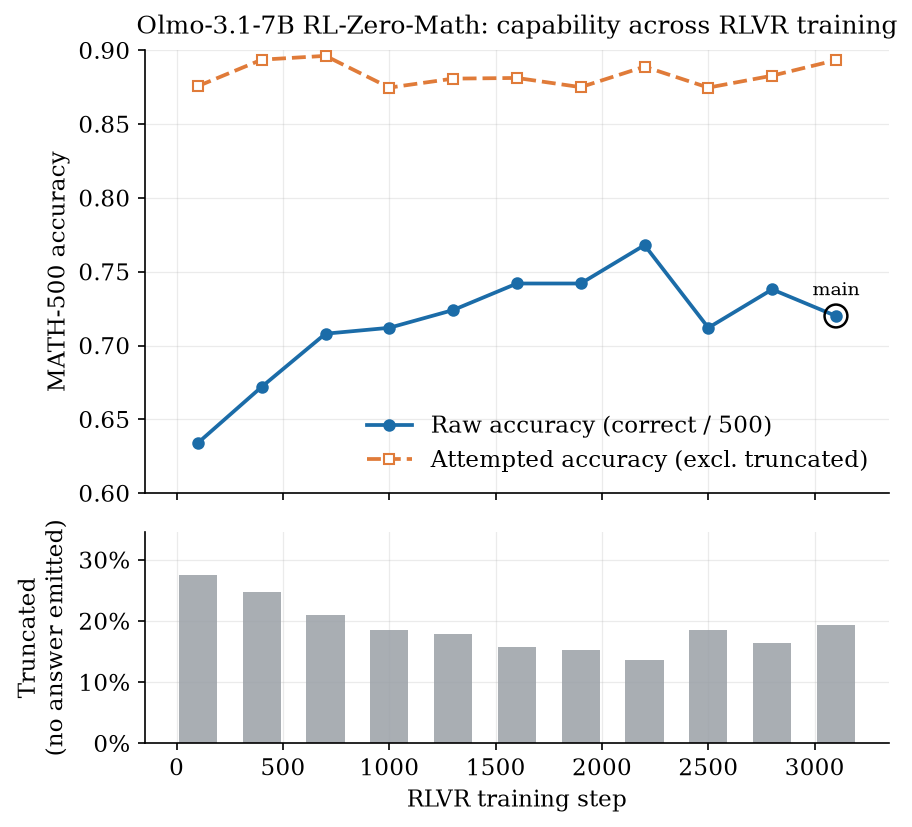
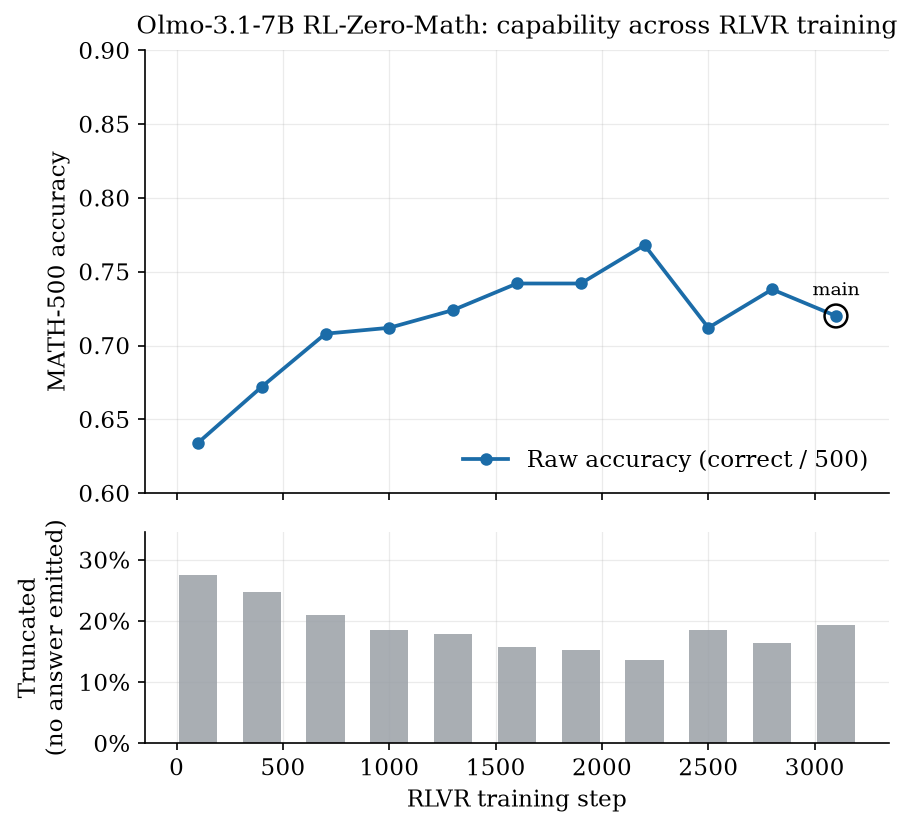
higher token limit run

diff --git a/phase1/higher_token_limit.py b/phase1/higher_token_limit.py
@@ -1,0 +1,146 @@
+"""Re-run MATH-500 capability eval only on truncated problems, at a 30k cap.
+
+Reads the existing 16k-cap results in results/phase1/capability/<revision>.jsonl,
+finds problems whose response hit the old max-token limit (detected by
+re-tokenizing the stored response), and regenerates just those with
+max_new_tokens=30000. Everything else (model loading, scaffold, scoring) is
+reused from eval_capability.py.
+
+Usage:
+  python phase1/higher_token_limit.py                       # all revisions with results
+  python phase1/higher_token_limit.py --revisions step_0100,main
+  python phase1/higher_token_limit.py --precision 4bit
+
+Writes (resumable within a revision -- rows are appended in chunks, and
+already-answered problem ids are skipped on restart):
+  results/phase1/capability/higher_token_limit/<revision>.jsonl
+  results/phase1/capability/higher_token_limit/summary.csv
+"""
+from __future__ import annotations
+
+import argparse
+import csv
+import json
+import sys
+import time
+from pathlib import Path
+
+sys.path.insert(0, str(Path(__file__).resolve().parent))
+import eval_capability as ec  # sets HF_HOME / HF_TOKEN on import
+
+OLD_MAX = 16384
+NEW_MAX = 30000
+# Re-tokenizing generated text can differ slightly from the original count,
+# so treat anything within this slack of the old cap as truncated.
+TRUNC_SLACK = 32
+# Generate in chunks so a crash only loses the current chunk, at a small
+# batching-throughput cost.
+CHUNK = 25
+
+OUT_DIR = ec.OUT_DIR / "higher_token_limit"
+
+
+def truncated_rows(revision: str, tokenizer) -> list[dict]:
+    """Rows from the 16k run whose response filled the old token budget."""
+    path = ec.OUT_DIR / f"{revision}.jsonl"
+    rows = [json.loads(l) for l in open(path)]
+    return [r for r in rows
+            if len(tokenizer.encode(r["response"], add_special_tokens=False))
+            >= OLD_MAX - TRUNC_SLACK]
+
+
+def write_summary():
+    rows = []
+    done = {p.stem: p for p in OUT_DIR.glob("*.jsonl")}
+    order = [r for r in ec.cached_revisions() if r in done] + sorted(set(done) - set(ec.cached_revisions()))
+    for rev in order:
+        rrows = [json.loads(l) for l in open(done[rev])]
+        n, correct = len(rrows), sum(r["correct"] for r in rrows)
+        rows.append({"revision": rev, "n_truncated": n, "correct": correct,
+                     "accuracy": round(correct / n, 4) if n else 0.0})
+    path = OUT_DIR / "summary.csv"
+    with open(path, "w", newline="") as f:
+        w = csv.DictWriter(f, fieldnames=["revision", "n_truncated", "correct", "accuracy"])
+        w.writeheader()
+        w.writerows(rows)
+    print(f"[summary] -> {path}")
+
+
+def main():
+    ap = argparse.ArgumentParser(description=__doc__)
+    ap.add_argument("--revisions", help="comma-separated (default: all with 16k results)")
+    ap.add_argument("--precision", default="fp8", choices=["fp8", "4bit"])
+    args = ap.parse_args()
+
+    if args.revisions:
+        revisions = args.revisions.split(",")
+    else:
+        revisions = [r for r in ec.cached_revisions()
+                     if (ec.OUT_DIR / f"{r}.jsonl").exists()]
+    OUT_DIR.mkdir(parents=True, exist_ok=True)
+
+    # Same constraint as eval_capability: one vLLM engine per process, so with
+    # multiple revisions re-invoke this script once per revision.
+    if len(revisions) > 1:
+        import subprocess
+
+        print(f"[plan] {len(revisions)} checkpoints -> {OUT_DIR} (one subprocess each)")
+        for rev in revisions:
+            # A partial .jsonl may exist, so let the child decide what remains.
+            r = subprocess.run([sys.executable, __file__, "--revisions", rev,
+                                "--precision", args.precision])
+            if r.returncode != 0:
+                print(f"[error] {rev} failed (exit {r.returncode}); continuing")
+        write_summary()
+        print("[done] all checkpoints")
+        return
+
+    rev = revisions[0]
+    out_path = OUT_DIR / f"{rev}.jsonl"
+
+    from transformers import AutoTokenizer
+
+    tokenizer = AutoTokenizer.from_pretrained(ec.MODEL_REPO, revision=rev)
+    problems = truncated_rows(rev, tokenizer)
+    done_ids = ({json.loads(l)["id"] for l in open(out_path)}
+                if out_path.exists() else set())
+    remaining = [p for p in problems if p["id"] not in done_ids]
+    if not remaining:
+        out_path.touch()
+        print(f"[skip] {rev}: nothing left to re-run "
+              f"({len(done_ids)} done, {len(problems)} truncated)")
+        return
+    print(f"[plan] {rev}: {len(remaining)}/{len(problems)} truncated problems left, "
+          f"re-running at {NEW_MAX} tokens")
+
+    llm = ec.load_llm(rev, args.precision, NEW_MAX + 1024)
+    t0 = time.time()
+    with open(out_path, "a") as f:
+        for i in range(0, len(remaining), CHUNK):
+            chunk = remaining[i:i + CHUNK]
+            prompts = [f"{ec.MATH_HEADER}\n\n{p['problem'].strip()}\n{ec.MATH_FOOTER}"
+                       for p in chunk]
+            responses = ec.generate_all(llm, prompts, NEW_MAX)
+            for p, resp in zip(chunk, responses):
+                pred = ec.extract_answer(resp)
+                row = {"id": p["id"], "problem": p["problem"], "answer": p["answer"],
+                       "level": p["level"], "subject": p["subject"],
+                       "response": resp, "pred": pred,
+                       "correct": ec.is_correct(pred, p["answer"]),
+                       "precision": args.precision, "max_new_tokens": NEW_MAX,
+                       "old_pred": p["pred"], "old_correct": p["correct"]}
+                f.write(json.dumps(row) + "\n")
+            f.flush()
+            print(f"[chunk] {rev}: {min(i + CHUNK, len(remaining))}/{len(remaining)}")
+    secs = int(time.time() - t0)
+    ec.free_llm(llm)
+
+    rows = [json.loads(l) for l in open(out_path)]
+    correct = sum(r["correct"] for r in rows)
+    acc = correct / len(rows) if rows else 0.0
+    print(f"[done] {rev}: {correct}/{len(rows)} = {acc:.3f} ({secs}s) -> {out_path}")
+    write_summary()
+
+
+if __name__ == "__main__":
+    main()

diff --git a/phase1/plot_capability.py b/phase1/plot_capability.py
@@ -1,10 +1,9 @@
 """Publication figure for the MATH-500 capability sweep.
 
 Reads results/phase1/capability/{summary.csv, *.jsonl} and plots the RLVR
-capability curve alongside the token-cap confound: responses that never emit
+raw accuracy curve alongside the token-cap confound: responses that never emit
 "Answer:"/\\boxed are truncated ramblers (hit the 16384-token cap) and are
-always scored incorrect. "Attempted accuracy" = correct / (n - truncated)
-removes that confound.
+always scored incorrect.
 
   python phase1/plot_capability.py            # -> results/phase1/capability/capability.pdf + .png
 """
@@ -33,8 +32,6 @@ def load() -> pd.DataFrame:
         trunc[rev] = sum(not has_answer(r["response"]) for r in rows)
     summary["truncated"] = summary["revision"].map(trunc)
     summary["trunc_rate"] = summary["truncated"] / summary["n"]
-    attempted = summary["n"] - summary["truncated"]
-    summary["attempted_acc"] = summary["correct"] / attempted
     # x position: step number; 'main' plotted as the final checkpoint
     steps = [int(r.split("_")[1]) if r.startswith("step_") else None
              for r in summary["revision"]]
@@ -59,7 +56,7 @@ def style() -> None:
 
 
 # consistent, colorblind-safe palette
-C_RAW, C_ATT, C_TRUNC = "#1b6ca8", "#e07b39", "#9aa0a6"
+C_RAW, C_TRUNC = "#1b6ca8", "#9aa0a6"
 
 
 def plot(df: pd.DataFrame) -> None:
@@ -71,11 +68,9 @@ def plot(df: pd.DataFrame) -> None:
     x = df["x"]
     is_main = df["revision"] == "main"
 
-    # --- top: accuracy curves ---
+    # --- top: accuracy curve ---
     ax.plot(x, df["accuracy"], "-o", color=C_RAW, lw=1.8, ms=5,
             label="Raw accuracy (correct / 500)")
-    ax.plot(x, df["attempted_acc"], "--s", color=C_ATT, lw=1.8, ms=4.5,
-            mfc="white", label="Attempted accuracy (excl. truncated)")
     # mark the shipped 'main' checkpoint
     ax.scatter(x[is_main], df["accuracy"][is_main], s=120, facecolors="none",
                edgecolors="black", lw=1.2, zorder=5)
@@ -104,5 +99,5 @@ def plot(df: pd.DataFrame) -> None:
 
 if __name__ == "__main__":
     df = load()
-    print(df[["revision", "accuracy", "attempted_acc", "trunc_rate"]].to_string(index=False))
+    print(df[["revision", "accuracy", "trunc_rate"]].to_string(index=False))
     plot(df)